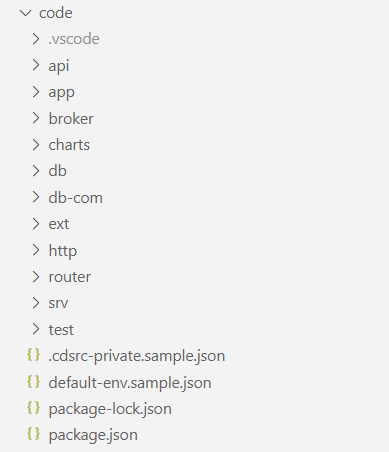
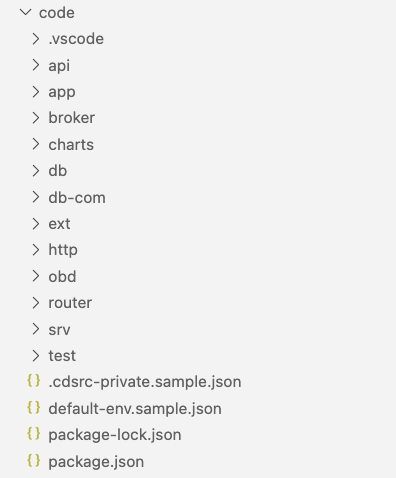
Docu - Update repo structure + What's new

Changed region(s): [[0.0308, 0.0, 0.617, 0.9912], [0.0617, 0.6195, 0.0925, 0.6814], [0.0617, 0.3407, 0.0925, 0.3717]]

diff --git a/docu/2-basic/1-understand-repo-structure/README.md b/docu/2-basic/1-understand-repo-structure/README.md
@@ -12,10 +12,11 @@ This part of the tutorial will briefly outline the structure of **code** directo
   - [7. Shared data model](#7-shared-data-model)
   - [8. Extension Files](#8-extension-files)
   - [9. HTTP Test Files](#9-http-test-files)
-  - [10. Application Router](#10-application-router)
-  - [11. Annotation Files](#11-annotation-files)
-  - [12. Business Application Service](#12-business-application-service)
-  - [13. Test objects](#13-test-objects)
+  - [10. Onboarding Service](#10-onboarding-service)
+  - [11. Application Router](#11-application-router)
+  - [12. Annotation Files](#12-annotation-files)
+  - [13. Business Application Service](#13-business-application-service)
+  - [14. Test objects](#14-test-objects)
 
 Also, check out our **Explore the components** chapter ([click here](../9-explore-the-components/README.md)), which describes the various SaaS application components and their tasks in greater detail ([click here](../7-explore-the-components/README.md)). For now, let us start with a brief overview, before deep-diving into the different sub-directories. 
 
@@ -26,7 +27,7 @@ The **code** directory of our GitHub repository consists of several sub-director
 
 | | |
 |:--: | :--- |
-| [<img src="./images/Repo_Structure_All.png" width="350"/>](./images/Repo_Structure_All.png?raw=true) | <br> <br> **api -** CAP-based API service <br> **app -** SAP Fiori Elements UI modules <br> **broker -** API Service Broker <br> **charts -** Helm charts <br> **db -** Tenant data model <br> **db-com -** Shared/Common data model <br> **ext -** CAP-based SaaS extension <br> **http -** HTTP files for testing purposes <br> **router -** Application Router <br> **srv -** CAP-based Business Application service <br> **test -** Unit tests and sample data <br> <br> **.cdscr-private.sample.json -** K8S binding samples for local testing <br> **default-env.sample.json -** Environment variables for local testing  <br> **package.json -** CDS configs and dependencies for local testing |
+| [<img src="./images/Repo_Structure_All.png" width="350"/>](./images/Repo_Structure_All.png?raw=true) | <br> <br> **api -** CAP-based API service <br> **app -** SAP Fiori Elements UI modules <br> **broker -** API Service Broker <br> **charts -** Helm charts <br> **db -** Tenant data model <br> **db-com -** Shared/Common data model <br> **ext -** CAP-based SaaS extension <br> **http -** HTTP files for testing purposes <br> **obd -** Onboarding Service (Expert Feature) <br> **router -** Application Router <br> **srv -** CAP-based Business Application service <br> **test -** Unit tests and sample data <br> <br> **.cdscr-private.sample.json -** K8S binding samples for local testing <br> **default-env.sample.json -** Environment variables for local testing  <br> **package.json -** CDS configs and dependencies for local testing |
 
 > **Hint** - Each of our CAP-based application components like the SaaS Backend Service or the API Service contain a dedicated *package.json* file. Instead of using the root-level *package.json* file we decided to provide component specific dependencies and CDS production profile configurations.
 
@@ -137,7 +138,14 @@ The **http** directory contains HTTP files allowing you to test the SaaS API end
 | [<img src="./images/Repo_Structure_Http.png" width="350"/>](./images/Repo_Structure_Http.png?raw=true) |  **api\*.http -** HTTP files for API testing <br> **tenantUpgrade.http -** Sample HTTP call for Tenant upgrades |
 
 
-## 10. Application Router
+## 10. Onboarding Service
+
+The **obd** directory contains a separate user interfaces and workloads, including a CAP Service and an Application Router, used to offer a Self-Onboarding Service to customers interested in signing-up for a SaaS solution. Further details on how to deploy the respective Helm chart to your own Kyma Cluster after setting up the SaaS application, can be found in the respective Expert Feature chapter [click here](../../4-expert/onboard-automation-domain/README.md).
+
+[<img src="./images/Repo_Structure_Onboarding.png" width="350"/>](./images/Repo_Structure_Onboarding.png?raw=true)
+
+
+## 11. Application Router
 
 The **router** directory contains all files of the Application Router required by our SaaS sample application. In this case, only the *xs-app.json* file and a health-check is required. 
 
@@ -148,7 +156,7 @@ The **router** directory contains all files of the Application Router required b
 | [<img src="./images/Repo_Structure_Router.png" width="350"/>](./images/Repo_Structure_Router.png?raw=true) |  **.dockerignore -** Ignore package.json for docker build <br> **Dockerfile -** Docker image based on sapse/approuter <br> **health.html -** Used for pod health checks <br> **package.json -** Required for local testing only  <br> **xs-app.json -** Route definitions for productive usage <br>  |
 
 
-## 11. Annotation Files
+## 12. Annotation Files
 
 The **annotations** folder in the **srv** directory contains all service annotations required to generate the Fiori Elements UIs of our sample application. These annotations define the capabilities of the OData Services but also set the layouts of the SAP Fiori Elements user interfaces. 
 
@@ -161,7 +169,7 @@ The **annotations** folder in the **srv** directory contains all service annotat
 > **Hint** - Yes, these annotation files can also be part of your UI modules as you can see in other tutorials. Feel free to move them around if you feel more comfortable storing the annotations among your actual UI components. 
 
 
-## 12. Business Application Service
+## 13. Business Application Service
 
 The rest of the **srv** directory contains the implementation of our Business Application or central SaaS Backend Service. This includes OData-Services (*admin-service.js/cds* and *user-service.js/cds*) for our Fiori Elements UIs, as well as the automation logic executed on the subscription of new consumer-tenants (*provisioning.js*). The corresponding subscription service endpoints are exposed by using the **CAP mtxs** ([click here](https://cap.cloud.sap/docs/guides/multitenancy/mtxs) for further details). 
 
@@ -184,7 +192,7 @@ A lot of the Tenant onboarding steps have been automated using platform APIs and
 | [<img src="./images/Repo_Structure_Service.png" width="350"/>](./images/Repo_Structure_Service.png?raw=true) | **i18n -** Language files <br> **utils -** Utilities (mainly for automation purposes) <br><p style='padding-left:1em'> **alertNotification.js -** Alert Notification utilities <br> **apiRule.js -** Kyma API Rule utilities <br> **automator.js -** Tenant onboarding automation <br>**cis-central.js -** Cloud Management Service utilities <br>**destination.js -** Destination Service utilities <br>**service-manager.js -** Service Manager utilities <br>**token-utils.js -** Token handler utilities <br>**user-management.js -** User management utilities </p> **admin-service.cds -** CAP Admin Service definition <br>**admin-service.js -** CAP Admin Service handler <br> **annotations.cds -** Annotation CDS file references <br>**provisioning.js -** Tenant provisioning handler <br> **public-service.cds -** CAP User Service definition <br> **public-service.js -** CAP User Service handler <br> **server.js -** Health endpoints and custom provisioning  |
 
 
-## 13. Test objects
+## 14. Test objects
 
 The **test** directory contains sample data for local development and testing purposes as well as sample unit tests. 
 

diff --git a/docu/1-discover/6-whats-new/README.md b/docu/1-discover/6-whats-new/README.md
@@ -4,3 +4,8 @@ On this section of the tutorial, you will find a summary of all new features aft
 
 | Date       | Title                             | Branch       | Short description                             |
 |------------|-----------------------------------|--------------|-----------------------------------------------|
+| 2023/06/22 | Update CDS npm packages | main | CDS npm packages updated to latest version |
+| 2023/06/22 | Apply cds-serve requirement | main | "cds-serve" now being used to start CAP workloads |
+| 2023/06/22 | Optimize container start script | main | cds-serve used instead of npm run start |
+| 2023/06/01 | One Domain Concept | main | Expert Feature docu and sample code for One Domain Concept provided (code/obd) |
+| 2023/06/01 | Self-Service Onboarding Service | main | Expert Feature docu and sample code for Self-Service Onboarding provided (code/obd) |
